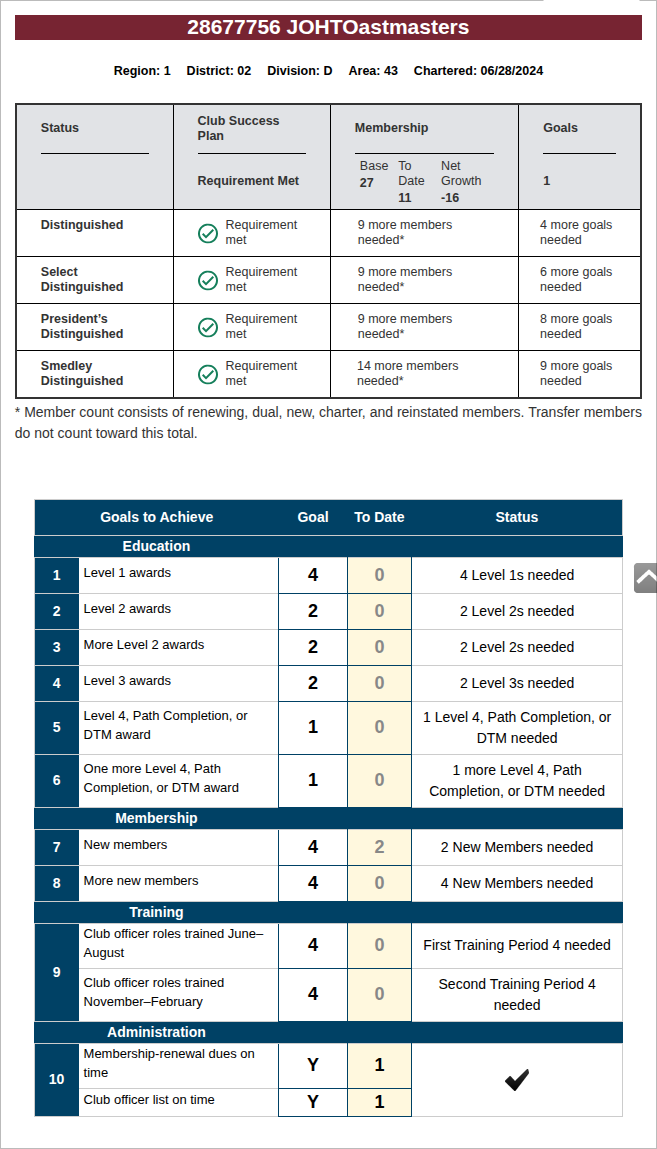
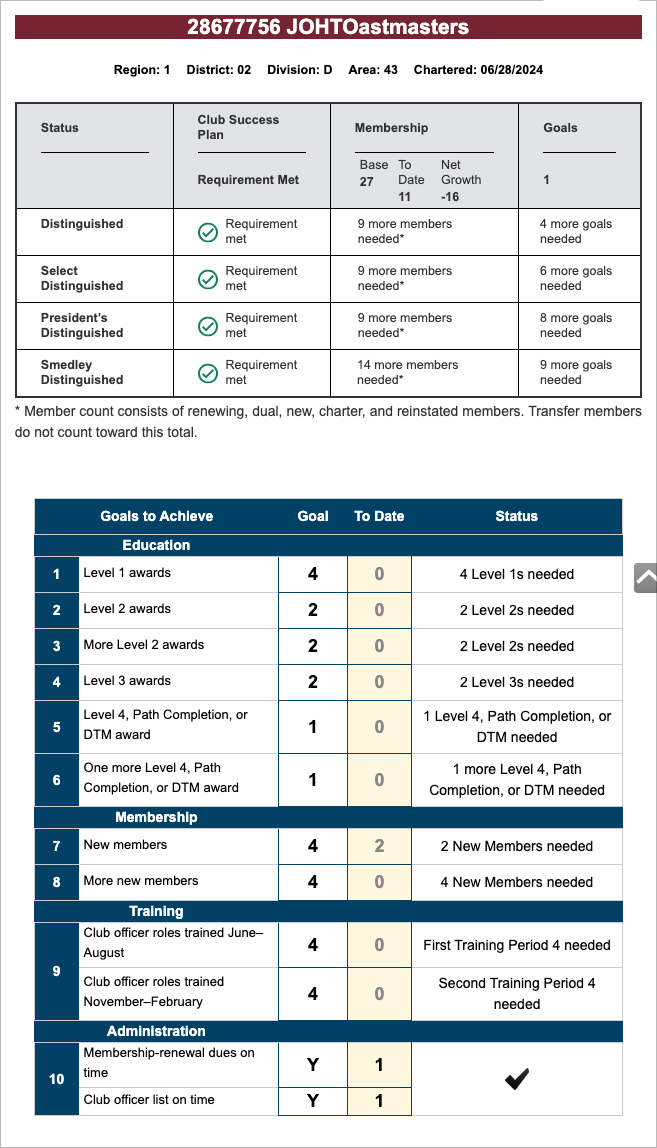
Changes for corporate club terms and improved testing (#2)
* Auto commit: updated the club dcp report files

* Auto commit: updated the club dcp report files

* Auto commit: updated the club dcp report files

* Changes for corporate club terms and improved testing.

* Add env variables to test generate report github action

* Updated the DCP report

---------

diff --git a/util/notify/notify_util.go b/util/notify/notify_util.go
@@ -1,8 +1,10 @@
 package notify
 
 import (
+	"fmt"
 	"log"
 	"os"
+	"regexp"
 	"time"
 
 	util "github.com/newhorizonsarizona/tmi-status-checker/util"
@@ -101,9 +103,26 @@ type DCPReport struct {
 	} `yaml:"Distinguished Club Program Report"`
 }
 
+var CorporateTerms = []map[string]string{
+	{"tm_term": "Distinguished Club Program", "corp_term": "Strategic plan"},
+	{"tm_term": "Membership", "corp_term": "Particiption"},
+	{"tm_term": "Membership-renewal", "corp_term": "Renewal"},
+	{"tm_term": "Pathways", "corp_term": "Curriculum"},
+	{"tm_term": "Officer", "corp_term": "Executive Board"},
+	{"tm_term": "Dues", "corp_term": "Tution"},
+	{"tm_term": "Goal", "corp_term": "Critical Success Factor"},
+	{"tm_term": "DTM", "corp_term": "Milestone"},
+	{"tm_term": "Member", "corp_term": "Participant"},
+	{"tm_term": "Club", "corp_term": "Program"}}
+
 func LoadDcpReport() {
 	// Open the YAML file
-	file, err := os.Open("../reports/dcp_report.yaml")
+	decodeDcpReport("../reports/dcp_report.yaml")
+}
+
+func decodeDcpReport(dcp_report_yaml_path string) {
+	// Open the YAML file
+	file, err := os.Open(dcp_report_yaml_path)
 	if err != nil {
 		log.Fatalf("error: %v", err)
 	}
@@ -143,4 +162,23 @@ func GetMessage() string {
 
 	question := util.QuestionBank[int(currentTime.Month())] + string(yaml)
 	return util.Chat(question + os.Getenv("CHAT_OUTPUT_FORMAT_PROMPT"))
+}
+
+func ReplaceWithCorpTerms(message_body string) string {
+	corp_message_body := message_body
+	for idx, corp_value := range CorporateTerms {
+		fmt.Printf("Corp Term #%d: Replacing %s with %s\n", idx+1, corp_value["tm_term"], corp_value["corp_term"])
+		corp_message_body = caseInsensitiveReplacer(corp_message_body, corp_value["tm_term"], corp_value["corp_term"])
+	}
+	return corp_message_body
+}
+
+func caseInsensitiveReplacer(message string, toReplace string, replaceWith string) string {
+	pattern := fmt.Sprintf(
+		`(?i)(^|[^-])(%s)($|[^-])`,
+		toReplace,
+	)
+	var regx = regexp.MustCompile(pattern)
+	escapedReplaceWith := regexp.QuoteMeta(replaceWith)
+	return regx.ReplaceAllString(message, `${1}`+escapedReplaceWith+`${3}`)
 }

diff --git a/send_notification/send_notification_test.go b/send_notification/send_notification_test.go
@@ -1,0 +1,22 @@
+package main
+
+import (
+	"bytes"
+	"encoding/json"
+	"fmt"
+	"log"
+	"testing"
+
+	notify "github.com/d2tm/tmi-status-checker/util/notify"
+)
+
+func TestGenerateMessage(t *testing.T) {
+	notify.LoadDcpReport()
+	message_card := GenerateMessageCard()
+	payload, err := json.MarshalIndent(message_card, "", "	")
+	if err != nil {
+		log.Fatalf("Failed to get JSON payload: %v", err)
+	}
+
+	fmt.Printf("Message Body: %s", bytes.NewBuffer(payload))
+}

diff --git a/send_mail/send_mail_test.go b/send_mail/send_mail_test.go
@@ -1,0 +1,17 @@
+package main
+
+import (
+	"fmt"
+	"os"
+	"testing"
+
+	notify "github.com/d2tm/tmi-status-checker/util/notify"
+)
+
+func TestGenerateMessage(t *testing.T) {
+	notify.LoadDcpReport()
+	club_number := os.Getenv("CLUB_NUMBER")
+	club_name := os.Getenv("CLUB_NAME")
+	email_body := generateMessageBody(club_number, club_name)
+	fmt.Printf("Email Body: %s", email_body)
+}

diff --git a/util/chat_util.go b/util/chat_util.go
@@ -94,19 +94,6 @@ var QuestionBank = map[int]string{
 		`,
 }
 
-func Test() {
-	// Open the YAML file
-	yaml, err := os.ReadFile("./reports/dcp_report.yaml")
-	if err != nil {
-		log.Fatalf("error: %v", err)
-	}
-	currentTime := time.Now()
-
-	question := QuestionBank[int(currentTime.Month())] + string(yaml)
-	answer := Chat(question + os.Getenv("CHAT_OUTPUT_FORMAT_PROMPT"))
-	log.Println("Answer: ", answer)
-}
-
 func Chat(question string) string {
 	api_key := os.Getenv("OPENAI_API_KEY")
 	if api_key == "" {

diff --git a/send_mail/main.go b/send_mail/main.go
@@ -42,10 +42,11 @@ func generateMessageBody(club_number string, club_name string) string {
 	if club_name == "" {
 		club_name = "Toastmasters Club"
 	}
+	is_corporate_club := os.Getenv("IS_CORPORATE_CLUB")
 	message := notify.GetMessage()
 	message = strings.ReplaceAll(message, "```html", "")
 	message = strings.ReplaceAll(message, "```", "")
-	return fmt.Sprintf(`<!DOCTYPE html>
+	message_body := fmt.Sprintf(`<!DOCTYPE html>
 <html lang="en">
 <head>
     <meta charset="UTF-8">
@@ -66,4 +67,10 @@ Best Regards,<br/>
 </body>
 </html>
 `, club_name, message, club_number)
+	fmt.Printf("Is corporate club? %s\n", is_corporate_club)
+	if is_corporate_club != "" {
+		message_body = notify.ReplaceWithCorpTerms(message_body)
+	}
+
+	return message_body
 }

diff --git a/main.go b/main.go
@@ -1,7 +1,5 @@
 package main
 
-import util "github.com/newhorizonsarizona/tmi-status-checker/util"
-
 func main() {
-	util.Test()
+	// util.Test()
 }

diff --git a/send_notification/main.go b/send_notification/main.go
@@ -14,7 +14,7 @@ func main() {
 	notify.LoadDcpReport()
 
 	//Send the announcement
-	err := sendAnnouncement(generateMessageCard())
+	err := sendAnnouncement(GenerateMessageCard())
 	if err != nil {
 		log.Fatalf("Failed to send DCP Report announcement message: %v", err)
 	} else {
@@ -23,7 +23,7 @@ func main() {
 
 }
 
-func generateMessageCard() map[string]interface{} {
+func GenerateMessageCard() map[string]interface{} {
 	statusSubheading := notify.GetSummary()
 	statusMessage := "Congratulations on your achievements!"
 	statusMessage = notify.GetMessage()